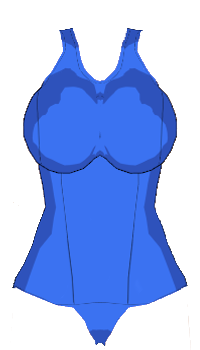
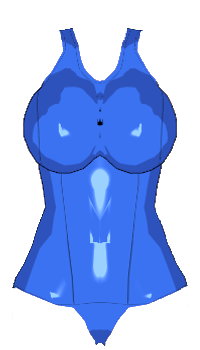
Locking Swimsuit Completion

diff --git a/BondageClub/Assets/Female3DCG/Female3DCG.js b/BondageClub/Assets/Female3DCG/Female3DCG.js
@@ -3055,7 +3055,7 @@ var AssetFemale3DCG = [
 					{ Name: "Locks", LockLayer: true }
 				]
 			},
-			{ Name: "LockingSwimsuit", Left: 150, Top: 200, BuyGroup: "LockingSwimsuit", Value: 10, AllowLock: true },
+			{ Name: "LockingSwimsuit", Left: 150, Top: 200, BuyGroup: "LockingSwimsuit", Value: 10, AllowLock: true, DrawLocks: false, Extended: true },
 			AssetSpankingToys 
 		],
 		Color: ["Default", "#202020", "#808080", "#bbbbbb", "#aa8080", "#80aa80", "#8080aa", "#aaaa80", "#80aaaa", "#aa80aa", "#cc3333", "#33cc33", "#3333cc", "#cccc33", "#33cccc", "#cc33cc"]
@@ -3077,7 +3077,7 @@ var AssetFemale3DCG = [
 		{ Group: "ItemAddon", Name: "CeilingChain" },
 	],
 	Asset: [
-		{ Name: "LockingSwimsuit", Left: 150, Top: 200, BuyGroup: "LockingSwimsuit", Value: 60, AllowLock: true },
+		{ Name: "LockingSwimsuit", Left: 150, Top: 200, BuyGroup: "LockingSwimsuit", Value: 60, AllowLock: true, DrawLocks: false, Extended: true },
 		{ Name: "LeatherStrapHarness", Fetish: ["Leather"], BuyGroup: "LeatherStrapHarness", Value: 50, Difficulty: 50, Time: 15, RemoveTime: 10, DefaultColor: "#101010", AllowLock: true, Prerequisite: "AccessTorso" },
 		{ Name: "LeatherHarness", Fetish: ["Leather"], BuyGroup: "LeatherHarness", Value: 60, Difficulty: 50, Time: 15, RemoveTime: 10, AllowLock: true, Prerequisite: "AccessTorso" },
 		AssetSpankingToys

diff --git a/BondageClub/Assets/Female3DCG/Female3DCGExtended.js b/BondageClub/Assets/Female3DCG/Female3DCGExtended.js
@@ -3819,7 +3819,28 @@ var AssetFemale3DCGExtended = {
 				},
 			},
 		}, // HempRopeHarness
+		LockingSwimsuit: {
+			Archetype: ExtendedArchetype.TYPED,
+			Config: {
+				Options: [
+					{
+						Name: "Shiny",
+						Property: {Type: null }
+					},
+					{
+						Name: "Dull",
+						Property: {Type: "Dull" }
+					}
+				],
+			},
+		}, //LockingSwimsuit
 	}, // ItemTorso
+	ItemTorso2: {
+		LockingSwimsuit: {
+			Archetype: ExtendedArchetype.TYPED,
+			CopyConfig: { GroupName: "ItemTorso", AssetName: "LockingSwimsuit" },
+		}, // LockingSwimsuit
+	}, //ItemTorso2
 	Shoes: {
 		FuturisticHeels2: {
 			Archetype: ExtendedArchetype.TYPED,
